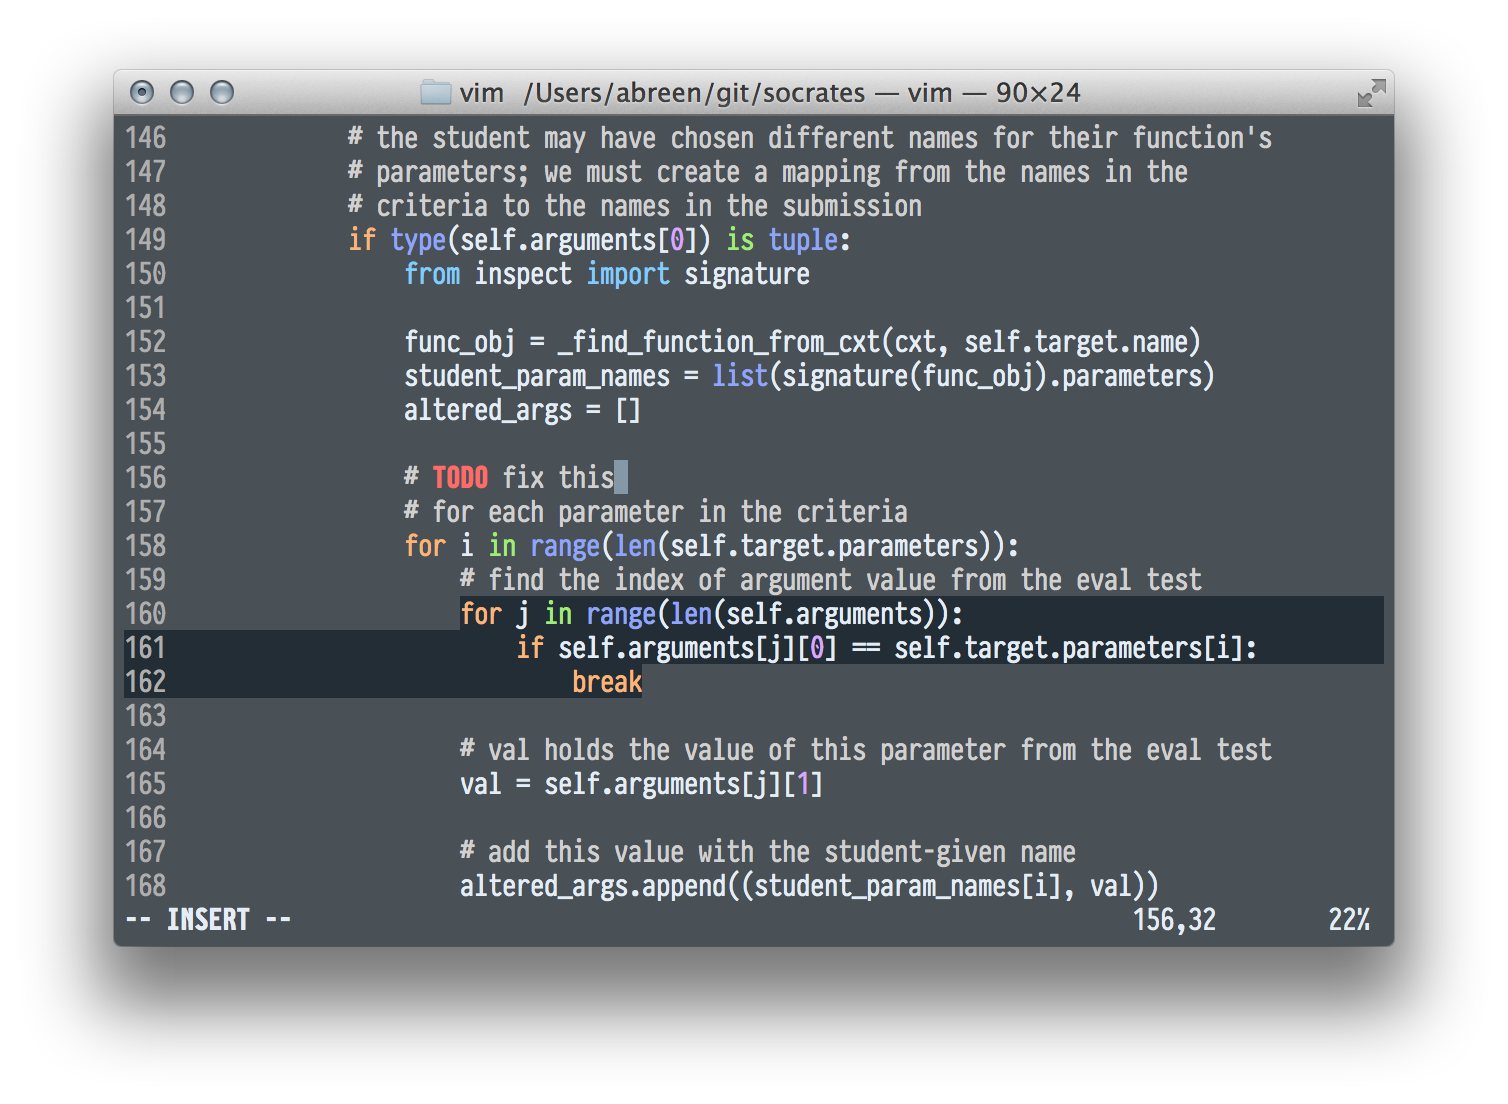
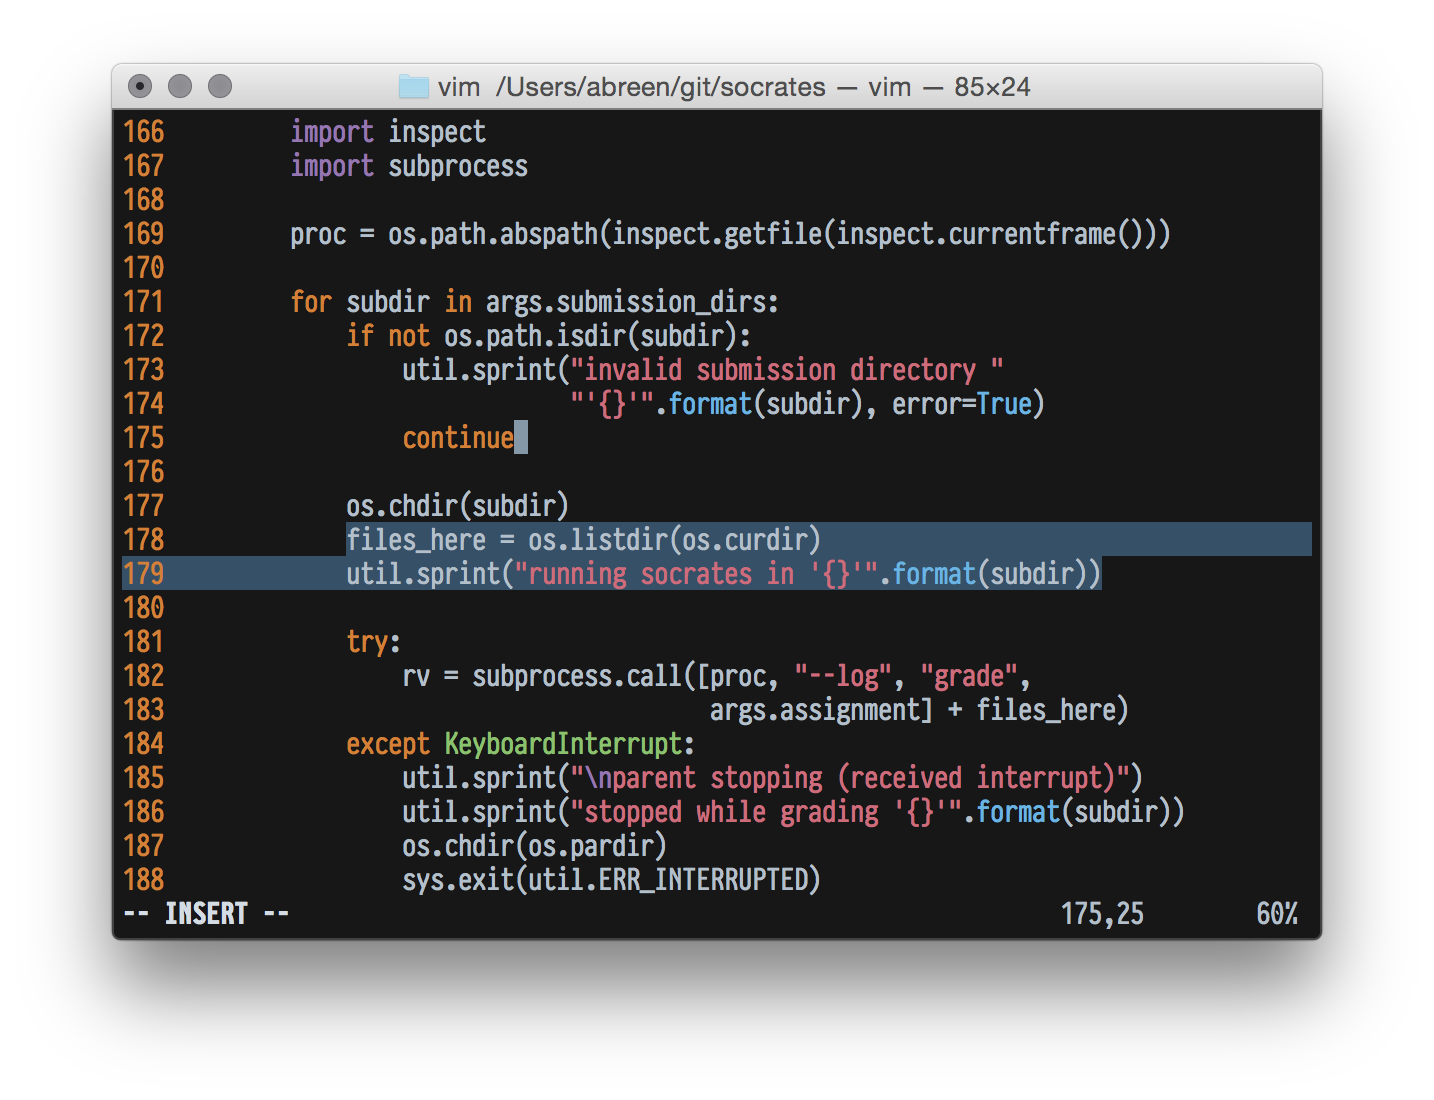
Updated README and screen shot

diff --git a/README.md b/README.md
@@ -10,24 +10,24 @@ If you don't use OS X terminal, here are the hex color values, but
 I can't guarantee the colors will look exactly like mine on your
 display.
 
-    background: #495056
-    foreground: #B3C0CB
-    cursor: #8498A7
-    selection: #222D36
+    background: #171717
+    foreground: #B2C0CC
+    cursor: #8397A8
+    selection: #365067
     black: #1C2329
-    bright black: #414A52
-    red: #A44656
-    bright red: #BD0C2B
-    green: #71A856
-    bright green: #7ECE58
-    yellow: #A56F48
-    bright yellow: #D6874F
-    blue: #576BA7
-    bright blue: #3769FF
-    magenta: #6C4E87
-    bright magenta: #9A6CC4
-    cyan: #4998C7
-    bright cyan: #64ADDB
-    white: #B3C0CB
-    bright white: #D4DCE4
+    bright black: #404A52
+    red: #A64455
+    bright red: #BF0425
+    green: #6FA952
+    bright green: #7BD050
+    yellow: #A66F44
+    bright yellow: #D78749
+    blue: #5669A9
+    bright blue: #3364FF
+    magenta: #6C4C89
+    bright magenta: #9B69C6
+    cyan: #4597C9
+    bright cyan: #61ACDD
+    white: #B3C0CC
+    bright white: #D3DCE4
 
